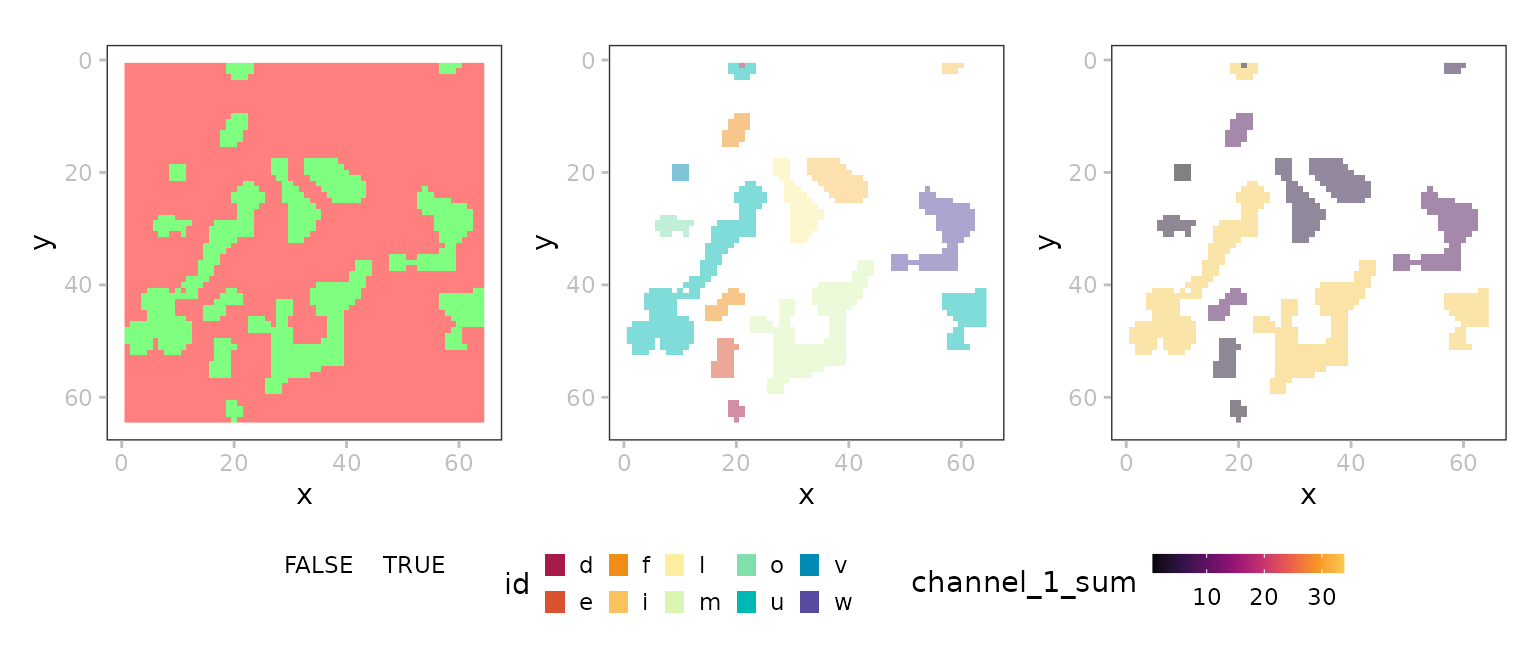
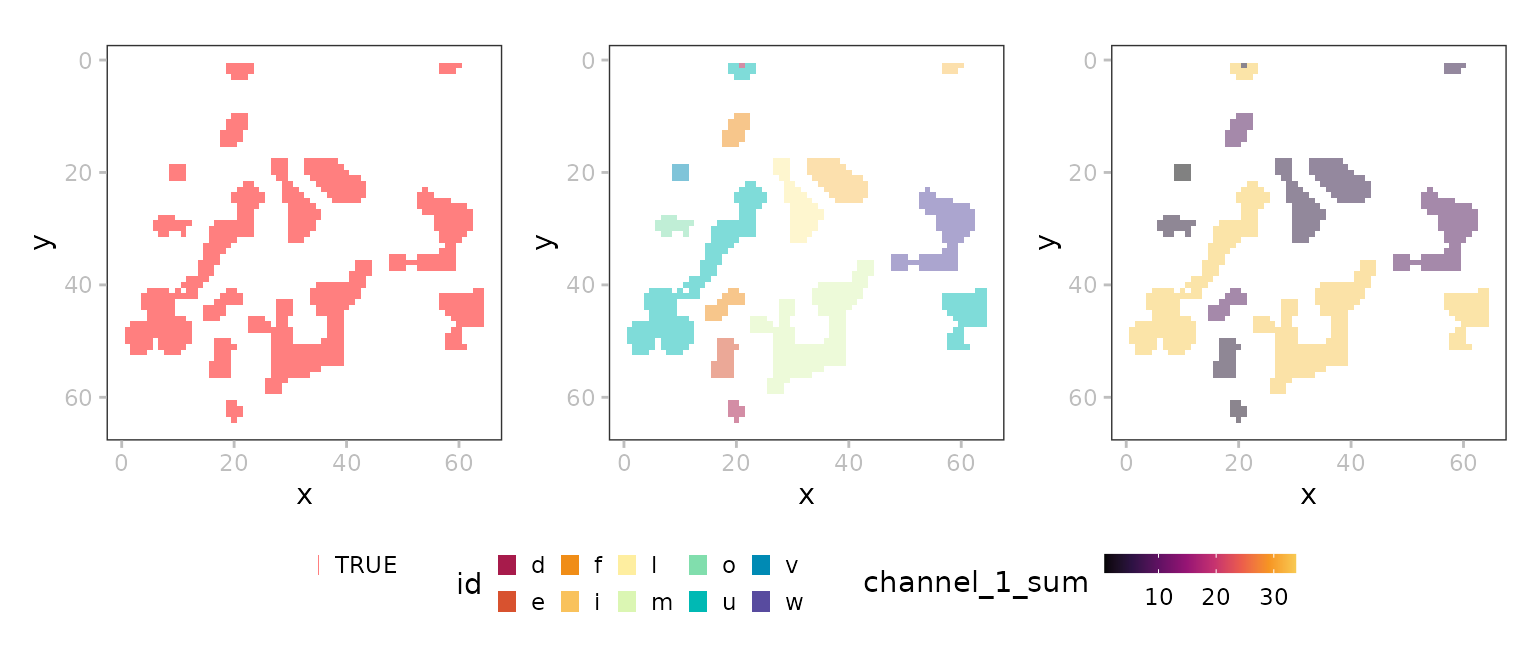
Deploying to gh-pages from @ HelenaLC/SpatialData.plot@a37731b4c369cd2f27e1904a7cfe8f4325a0b82d 🚀

Changed region(s): [[0.0625, 0.0938, 0.3438, 0.6562], [0.1875, 0.8125, 0.875, 0.9375]]

diff --git a/reference/plotLabel.html b/reference/plotLabel.html
@@ -105,8 +105,7 @@ specifies which <code>assay</code> data to use (see <code>valTable</code>).</p><
 
     <div class="section level2">
     <h2 id="ref-examples">Examples<a class="anchor" aria-label="anchor" href="#ref-examples"></a></h2>
-    <div class="sourceCode"><pre class="sourceCode r"><code><span class="r-in"><span><span class="va">x</span> <span class="op">&lt;-</span> <span class="fu"><a href="https://rdrr.io/r/base/file.path.html" class="external-link">file.path</a></span><span class="op">(</span><span class="st">"extdata"</span>, <span class="st">"blobs.zarr"</span><span class="op">)</span></span></span>
-<span class="r-in"><span><span class="va">x</span> <span class="op">&lt;-</span> <span class="fu"><a href="https://rdrr.io/r/base/system.file.html" class="external-link">system.file</a></span><span class="op">(</span><span class="va">x</span>, package<span class="op">=</span><span class="st">"SpatialData"</span><span class="op">)</span></span></span>
+    <div class="sourceCode"><pre class="sourceCode r"><code><span class="r-in"><span><span class="va">x</span> <span class="op">&lt;-</span> <span class="fu"><a href="https://rdrr.io/r/base/system.file.html" class="external-link">system.file</a></span><span class="op">(</span><span class="st">"extdata"</span>, <span class="st">"blobs.zarr"</span>, package<span class="op">=</span><span class="st">"SpatialData"</span><span class="op">)</span></span></span>
 <span class="r-in"><span><span class="va">x</span> <span class="op">&lt;-</span> <span class="fu">readSpatialData</span><span class="op">(</span><span class="va">x</span><span class="op">)</span></span></span>
 <span class="r-in"><span></span></span>
 <span class="r-in"><span><span class="va">i</span> <span class="op">&lt;-</span> <span class="st">"blobs_labels"</span></span></span>
@@ -127,14 +126,10 @@ specifies which <code>assay</code> data to use (see <code>valTable</code>).</p><
 <span class="r-in"><span><span class="co"># pal &lt;- hcl.colors(n, "Spectral")</span></span></span>
 <span class="r-in"><span><span class="va">pal_d</span> <span class="op">&lt;-</span> <span class="fu"><a href="https://rdrr.io/r/grDevices/palettes.html" class="external-link">hcl.colors</a></span><span class="op">(</span><span class="fl">10</span>, <span class="st">"Spectral"</span><span class="op">)</span></span></span>
 <span class="r-in"><span><span class="va">p</span> <span class="op">+</span> <span class="fu">plotLabel</span><span class="op">(</span><span class="va">x</span>, <span class="va">i</span>, c<span class="op">=</span><span class="st">"id"</span>, pal<span class="op">=</span><span class="va">pal_d</span><span class="op">)</span></span></span>
-<span class="r-wrn co"><span class="r-pr">#&gt;</span> <span class="warning">Warning: </span>Removed 3324 rows containing missing values or values outside the scale range</span>
-<span class="r-wrn co"><span class="r-pr">#&gt;</span> (`geom_raster()`).</span>
 <span class="r-plt img"><img src="plotLabel-2.png" alt="" width="700" height="433"></span>
 <span class="r-in"><span></span></span>
 <span class="r-in"><span><span class="co"># coloring by 'assay' data</span></span></span>
 <span class="r-in"><span><span class="va">p</span> <span class="op">+</span> <span class="fu">plotLabel</span><span class="op">(</span><span class="va">x</span>, <span class="va">i</span>, c<span class="op">=</span><span class="st">"channel_1_sum"</span><span class="op">)</span></span></span>
-<span class="r-wrn co"><span class="r-pr">#&gt;</span> <span class="warning">Warning: </span>Removed 3324 rows containing missing values or values outside the scale range</span>
-<span class="r-wrn co"><span class="r-pr">#&gt;</span> (`geom_raster()`).</span>
 <span class="r-plt img"><img src="plotLabel-3.png" alt="" width="700" height="433"></span>
 </code></pre></div>
     </div>

diff --git a/articles/SpatialData.plot.html b/articles/SpatialData.plot.html
@@ -69,7 +69,7 @@ Dong</h4>
                                     <h4 data-toc-skip class="author">Vince
 Carey</h4>
                         
-            <h4 data-toc-skip class="date">May 06, 2026</h4>
+            <h4 data-toc-skip class="date">May 07, 2026</h4>
       
       <small class="dont-index">Source: <a href="https://github.com/HelenaLC/SpatialData.plot/blob/main/vignettes/SpatialData.plot.Rmd" class="external-link"><code>vignettes/SpatialData.plot.Rmd</code></a></small>
       <div class="d-none name"><code>SpatialData.plot.Rmd</code></div>

diff --git a/reference/plotLabel.md b/reference/plotLabel.md
@@ -66,8 +66,7 @@ plotLabel(
 ## Examples
 
 ``` r
-x <- file.path("extdata", "blobs.zarr")
-x <- system.file(x, package="SpatialData")
+x <- system.file("extdata", "blobs.zarr", package="SpatialData")
 x <- readSpatialData(x)
 
 i <- "blobs_labels"
@@ -88,12 +87,8 @@ n <- length(unique(t$id))
 # pal <- hcl.colors(n, "Spectral")
 pal_d <- hcl.colors(10, "Spectral")
 p + plotLabel(x, i, c="id", pal=pal_d)
-#> Warning: Removed 3324 rows containing missing values or values outside the scale range
-#> (`geom_raster()`).
 
 
 # coloring by 'assay' data
 p + plotLabel(x, i, c="channel_1_sum")
-#> Warning: Removed 3324 rows containing missing values or values outside the scale range
-#> (`geom_raster()`).
 ```
